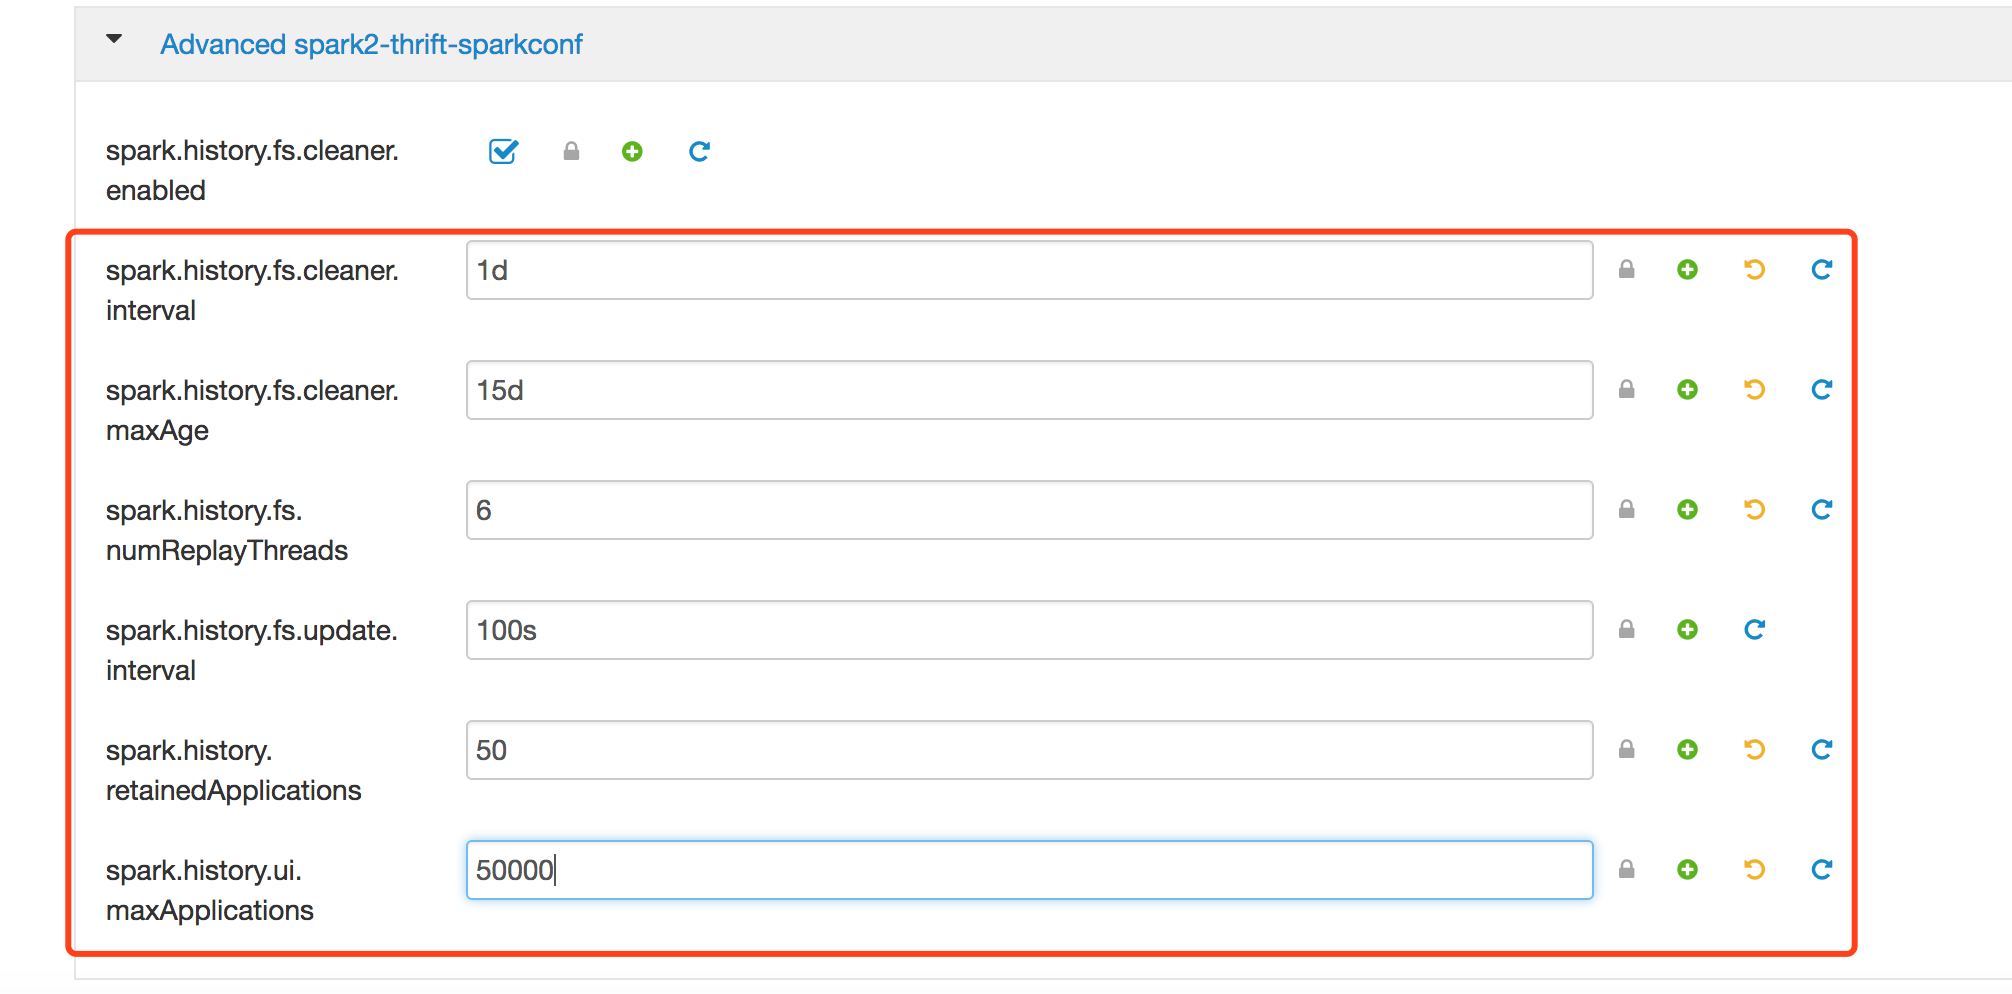
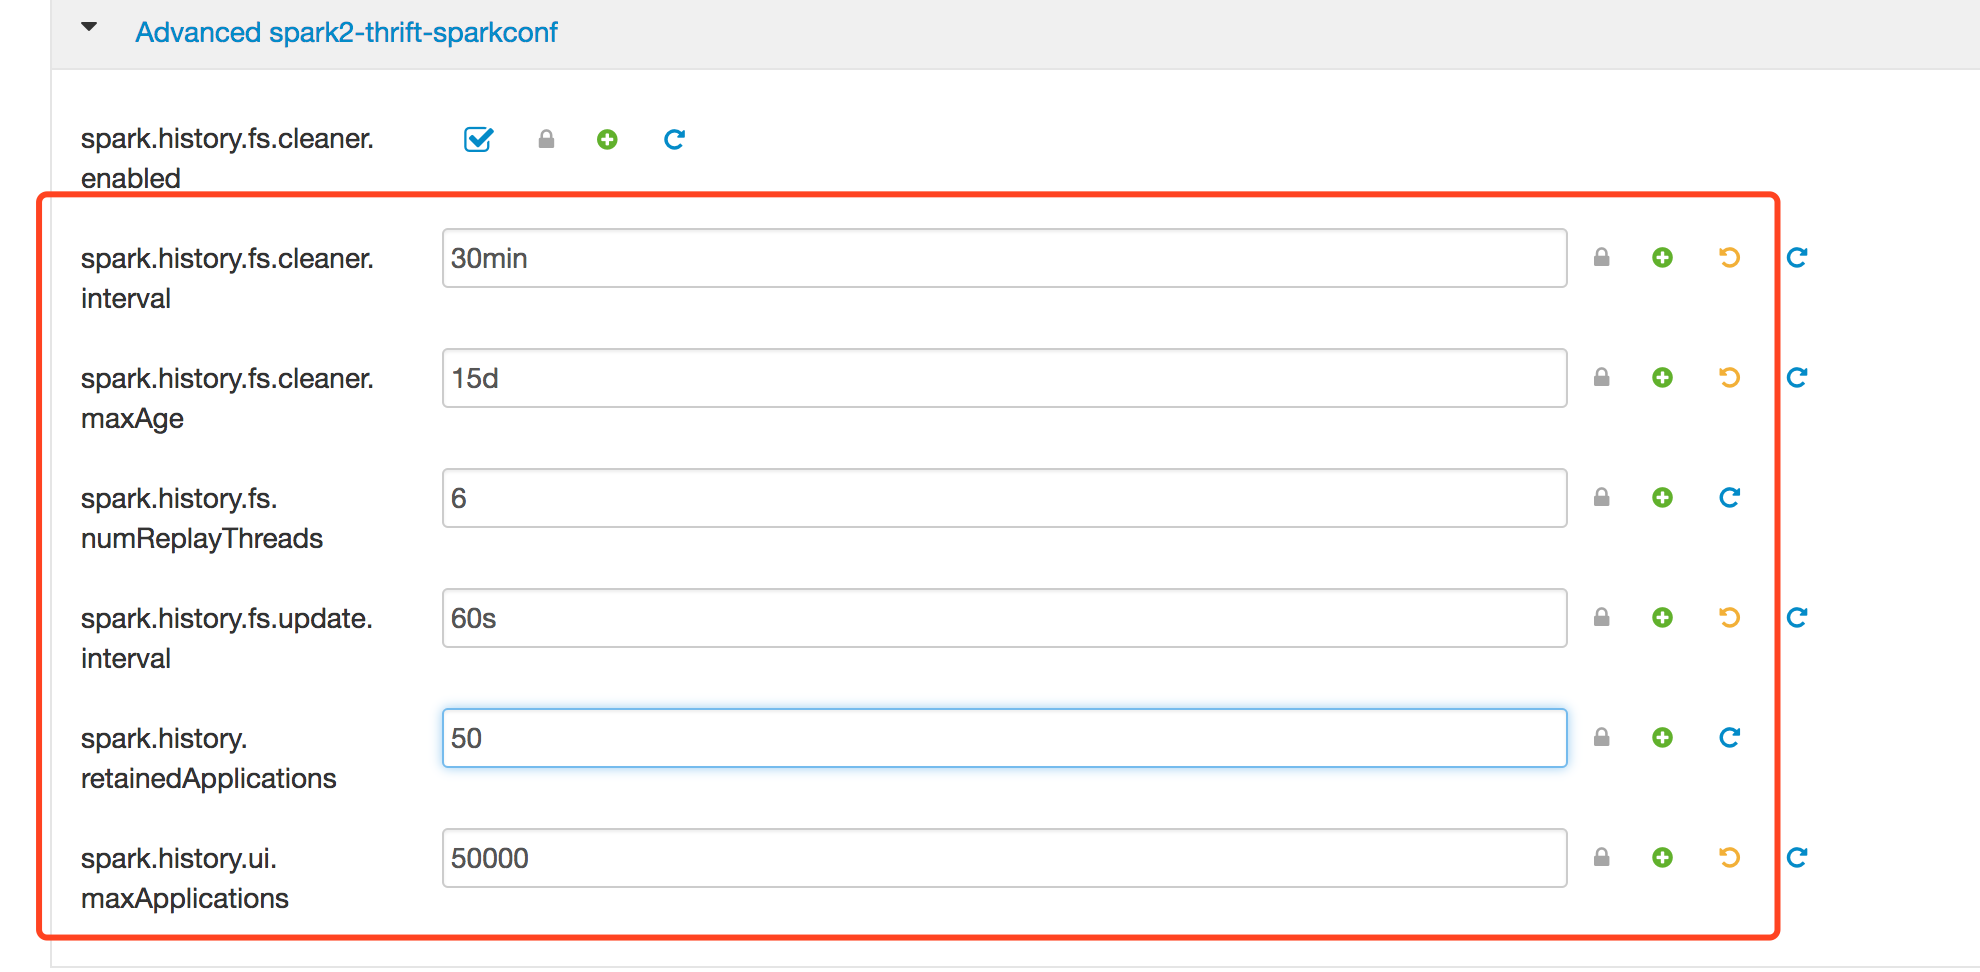
complete history report

diff --git a/Spark/spark-history-server.md b/Spark/spark-history-server.md
@@ -1,16 +1,63 @@
 # Spark History Server升级文档
 
-目前线上的spark history server 只能提供少量的application日志。
+## 社区基线
 
-最近测试了新版本的spark history server，在线上试运行近半个月，运行稳定，可以查看的application 日志数量更多，重启速度更快。
+2.3.2
 
-安装包地址为：http://repo.bdms.netease.com/dev_packages/common/spark/spark-2.3.2-bin-his-0.1.tgz
+## 版本说明
 
-## 手动升级
+> **该版本基于社区2.3.2**
+
+> >  NE-Spark - 版本号 ne-spark-2.3.2-0.0.0
+> >
+> >  解决线上问题
+> >
+> >  > spark history server对于用户和平台开发人员来说都是一个很有效的工具，可以帮助很好的把握应用的运行状况和定位问题。
+> >  >
+> >  > 目前线上运行的spark history server是基于社区2.1.2，这些老版本的history server存在以下问题：
+> >  >
+> >  > 1、老版本的history server将一切数据都存储在内存里，不依赖外部存储，这样的history server没有状态，在需要进行重启时，一切数据都要重新加载，处理。
+> >  >
+> >  > 2、老版本的history server可以查看的application list 很有限。因为需要把一切数据都放在内存，所以可查看的application list数目受到限制，目前线上的上限是2000条左右，甚至当天的application都不能查看日志，远远不能满足生产需求。
+> >  >
+> >  > 3、老版本的history server需要把一切数据都缓存在内存，如果内存占用严重，发生full gc时可能会造成不能及时查看应用日志。
+> >
+> >  新版本的history server解决了这些问题，依赖外部kv存储，可以将history server的数据和状态进行存储，缓解内存压力，可以支持查看大量的application 日志，满足生产需求，且在需要重启时，可以读取外部kv存储的数据，做到快速启动。
+> >
+> >  测试情况：
+> >
+> >  > 此前在线下测试了功能性和兼容性，测试结果表明功能性完好，兼容spark 各个版本的log(spark-2.1.2 spark-1.6.3).
+> >  >
+> >  > 目前已经在`spark1.lt.163.org`节点试运行半个月左右，目前设置查看application数量为50000，可以看到集群上近一个月application的日志。
+
+## 缺陷
+
+[NESPARK-148](http://jira.netease.com/browse/NESPARK-148)-[NE]\[2.1.2]The problems in current online Spark History Server
+
+## 任务
+
+[NESPARK-141](http://jira.netease.com/browse/NESPARK-141)-\[NE\]\[2.3.2\]Applying History Server on our online environments
+
+## 配置增改
+
+| 配置项                           | 配置文件           | 默认值 | 配置值                           | 功能简介                                                     |
+| -------------------------------- | ------------------ | ------ | -------------------------------- | ------------------------------------------------------------ |
+| spark.history.store.path         | spark-default.conf | null   | /usr/ndp/data/spark/historyStore | 用于缓存history  数据的本地文件夹，默认为空。如果不设置，所有数据将会放在内存中。 |
+| spark.history.store.maxDiskUsage | spark-default.conf | 10g    | 20g                              | spark.history.store.path可以使用的最大磁盘空间               |
+
+## 限制说明
+
+无
+
+##  升级指导
+
+安装包地址为：http://repo.bdms.netease.com/dev_packages/common/spark/spark-2.3.2-bin-ne-0.0.0.tgz
+
+### 手动升级
 
 将安装包解压，在conf/spark-env.sh中配置。
 
-spark-env.sh中所有配置选项都可从老版本history server配置文件拷贝，注意调大SPARK_DAEMON_MEMORY至40G。
+**spark-env.sh**中所有配置选项都可从老版本history server配置文件拷贝，注意调大SPARK_DAEMON_MEMORY至40G。
 
 ```
 # JVM内存设置40G，可按需调大
@@ -24,11 +71,11 @@ export LD_LIBRARY_PATH=/usr/ndp/current/mapreduce_client/lib/native:/usr/ndp/cur
 
 ```
 
-spark-default.conf配置如下：
+**spark-default.conf配置如下**：
 
 需要额外添加的配置项为`spark.history.store.path` `spark.history.store.maxDiskUsage`  ,spark.history.store.path 需要手动创建目录，spark.history.store.maxDiskUsage 设为20g。
 
-其他所有配置都可从老版本history server中拷贝，然后`spark.history.fs.cleaner.maxAge`调大至15d，`spark.history.ui.maxApplications`调大至50000(后续如果spark每天的应用数更多，可以调至100000),另外`spark.history.fs.numReplayThreads`设置为6(重要)。
+其他所有配置都可从老版本history server中拷贝，然后`spark.history.fs.cleaner.maxAge`调大至15d，`spark.history.ui.maxApplications`调大至50000(后续如果spark每天的应用数更多，可以调至100000),另外`spark.history.fs.numReplayThreads`设置为6(重要，因为将`spark.history.ui.maxApplications`调大之后，第一次启动时会拉取大量的数据，目前集群上设置的线程数是20，线程过多会造成网卡超载，目前线上机器核数为24，建议设置为核数的25%，即6)。
 
 参考如下：
 
@@ -38,14 +85,14 @@ spark.driver.extraLibraryPath /usr/ndp/current/mapreduce_client/lib/native:/usr/
 spark.eventLog.dir hdfs://hz-cluster3/user/spark/history
 spark.eventLog.enabled true
 spark.executor.extraLibraryPath /usr/ndp/current/mapreduce_client/lib/native:/usr/ndp/current/mapreduce_client/lib/native/Linux-amd64-64
-spark.history.fs.cleaner.interval 1d
+spark.history.fs.cleaner.interval 30min
 # 设置为保存15天日志
 spark.history.fs.cleaner.maxAge 15d
 # 按集群情况更改
 spark.history.fs.logDirectory hdfs://hz-cluster3/user/spark/history
 # 推荐设置为机器核数的25%，若太高，会造成第一次启动时，网络流量过大
 spark.history.fs.numReplayThreads 6
-spark.history.fs.update.interval 100s
+spark.history.fs.update.interval 60s
 spark.history.kerberos.enabled true
 # 需更改
 spark.history.kerberos.principal                      hadoop/admin@HADOOP.HZ.NETEASE.COM
@@ -64,9 +111,7 @@ spark.history.store.maxDiskUsage   20g
 
 然后关掉现有的spark history server，然后启动该新版history server。
 
-## Ambari 部署
-
-解压安装包。
+### Ambari 部署
 
 在ambari页面的 spark2配置页面的configs页面如下：
 
@@ -97,6 +142,9 @@ spark.history.store.maxDiskUsage   20g
 
 读写权限同用户`spark`，因此在创建spark.history.store.path 之后，需要使用  ` chown -R spark /usr/ndp/data/spark/historyStore ` 赋权。
 
-
-
 在配置好之后通过ambari重启spark相关组件。
+
+
+
+##  附加问题
+
